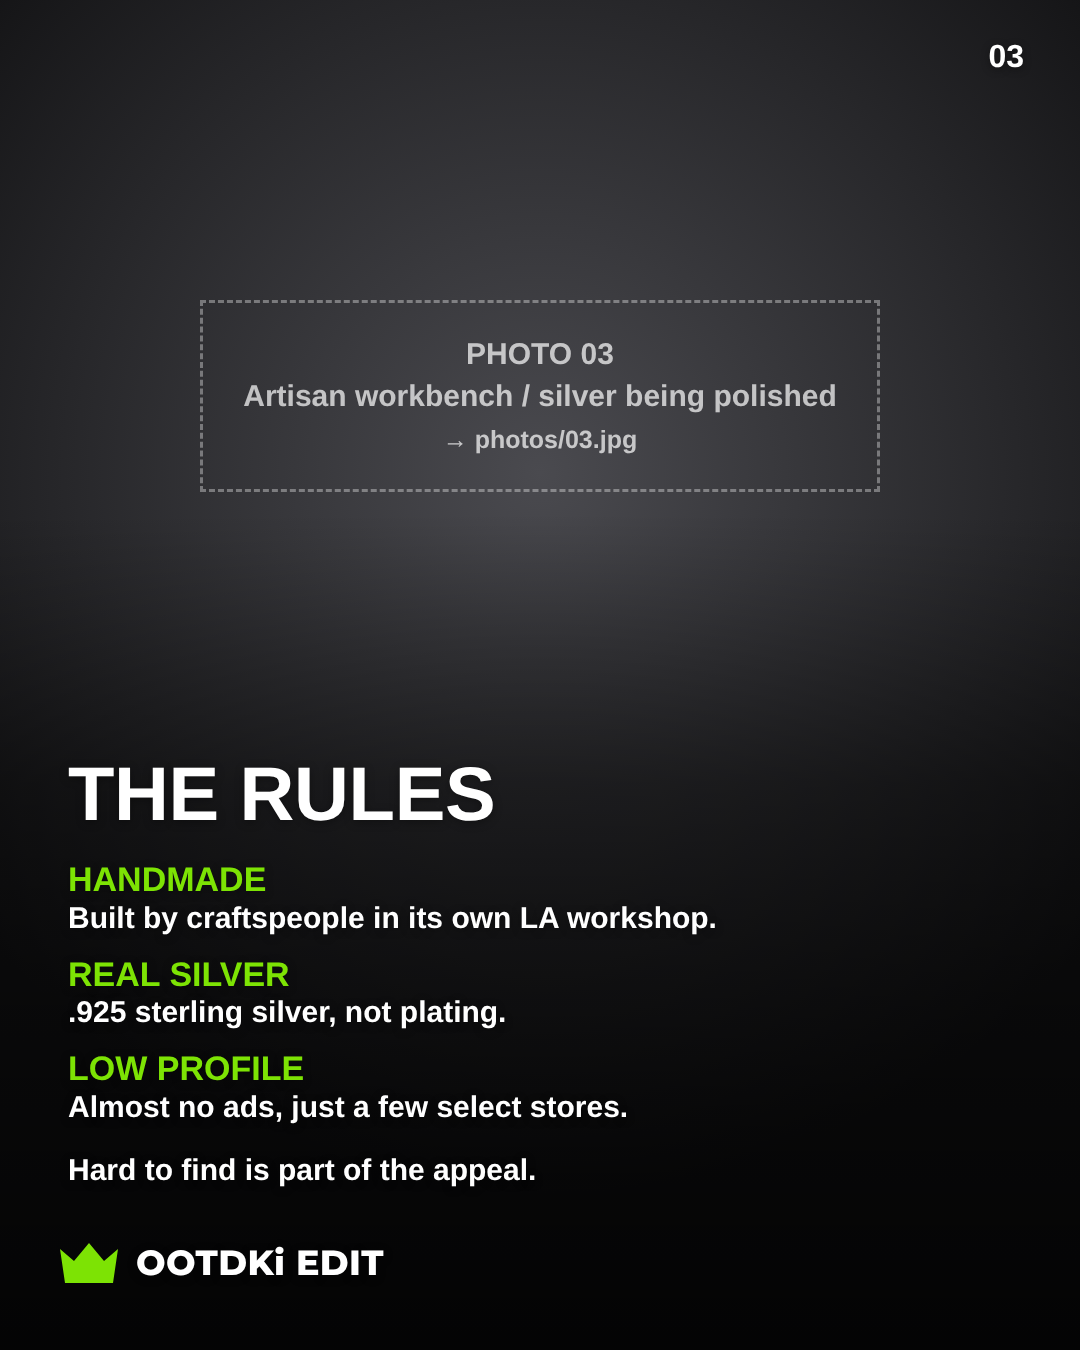
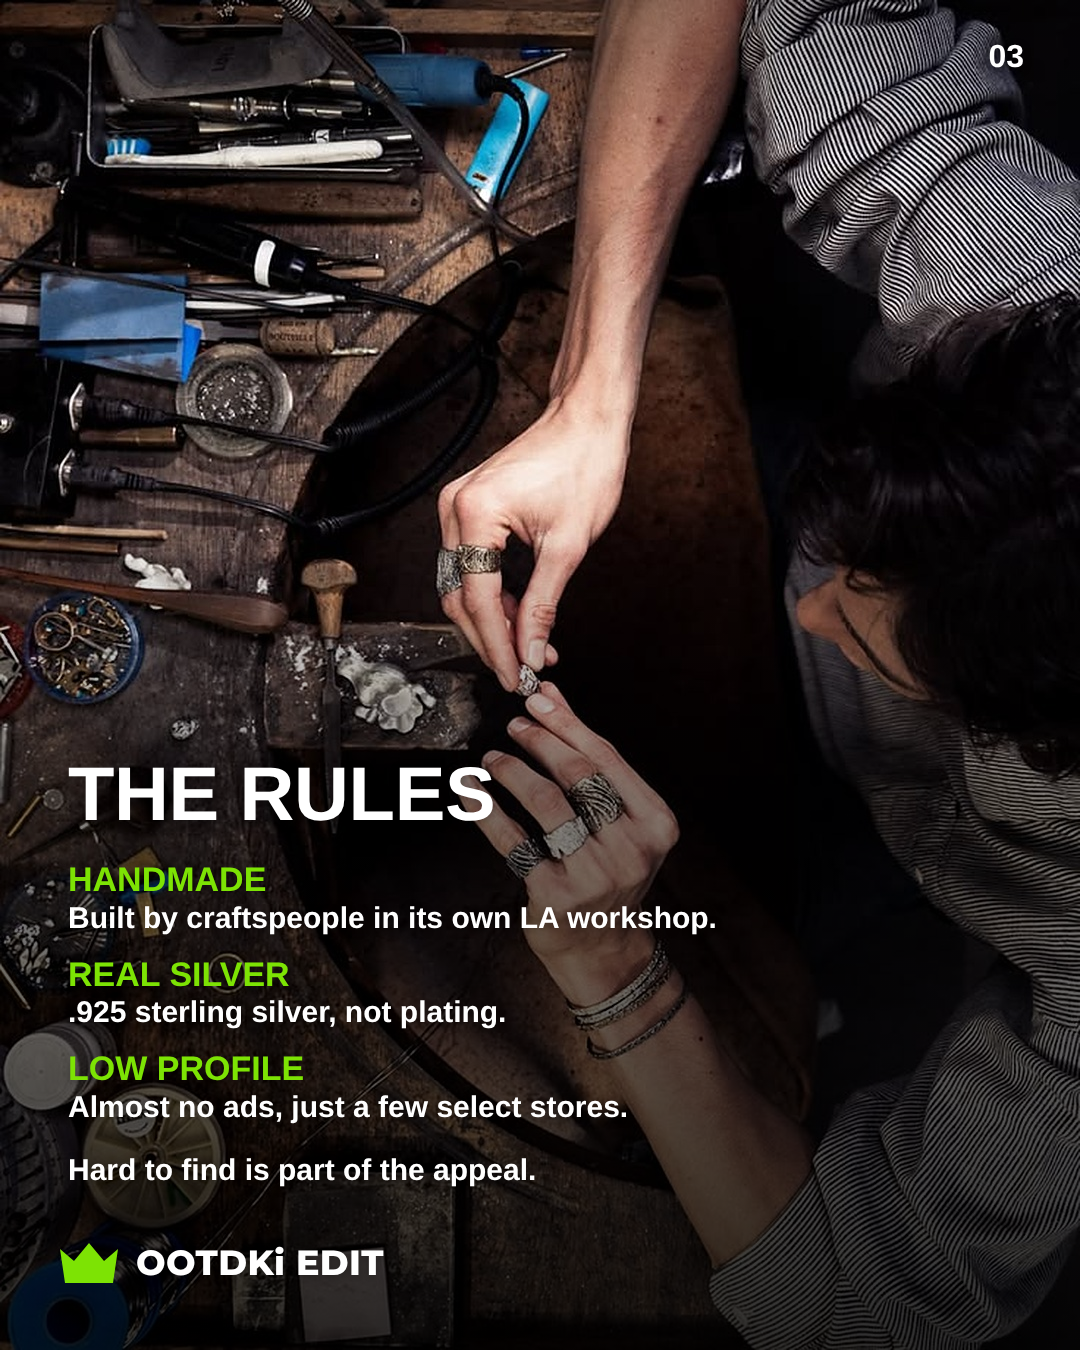
Add Pinterest photos to English Chrome Hearts carousel
Claude-Session: https://claude.ai/code/session_01GpgvC6zjETKGc5rJUK1wU2

diff --git a/chrome_hearts_carousel_en/template.html b/chrome_hearts_carousel_en/template.html
@@ -7,7 +7,7 @@ body{background:#111}
 .s img{position:absolute;inset:0;width:100%;height:100%;object-fit:cover}
 .ph{position:absolute;inset:0;background:radial-gradient(circle at 50% 35%,#4a4a4f,#151517 70%);display:flex;align-items:flex-start;justify-content:center;padding-top:300px}
 .ph div{border:3px dashed rgba(255,255,255,.35);padding:30px 40px;font-size:30px;color:rgba(255,255,255,.7);text-align:center;max-width:760px;line-height:1.4}
-.shade{position:absolute;inset:0;background:linear-gradient(180deg,rgba(0,0,0,0) 38%,rgba(0,0,0,.45) 58%,rgba(0,0,0,.82) 100%)}
+.shade{position:absolute;inset:0;background:linear-gradient(180deg,rgba(0,0,0,.28) 0%,rgba(0,0,0,0) 12%,rgba(0,0,0,0) 38%,rgba(0,0,0,.45) 58%,rgba(0,0,0,.82) 100%)}
 .n{position:absolute;top:38px;right:56px;font-size:32px;text-shadow:0 2px 8px rgba(0,0,0,.4)}
 .txt{position:absolute;left:68px;right:60px;bottom:163px}
 h1{font-size:76px;line-height:1;margin-bottom:30px;letter-spacing:-.005em}
